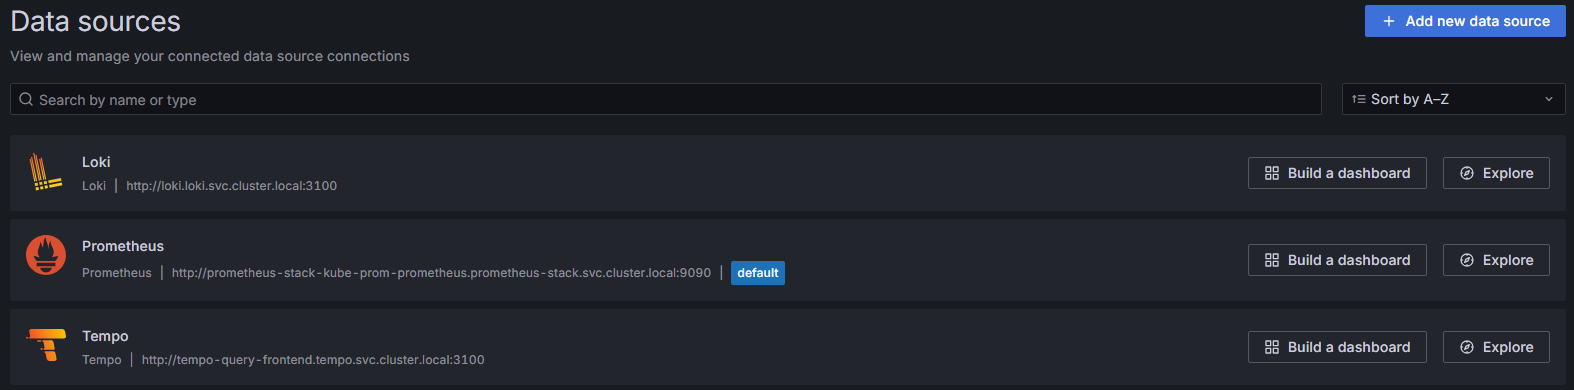
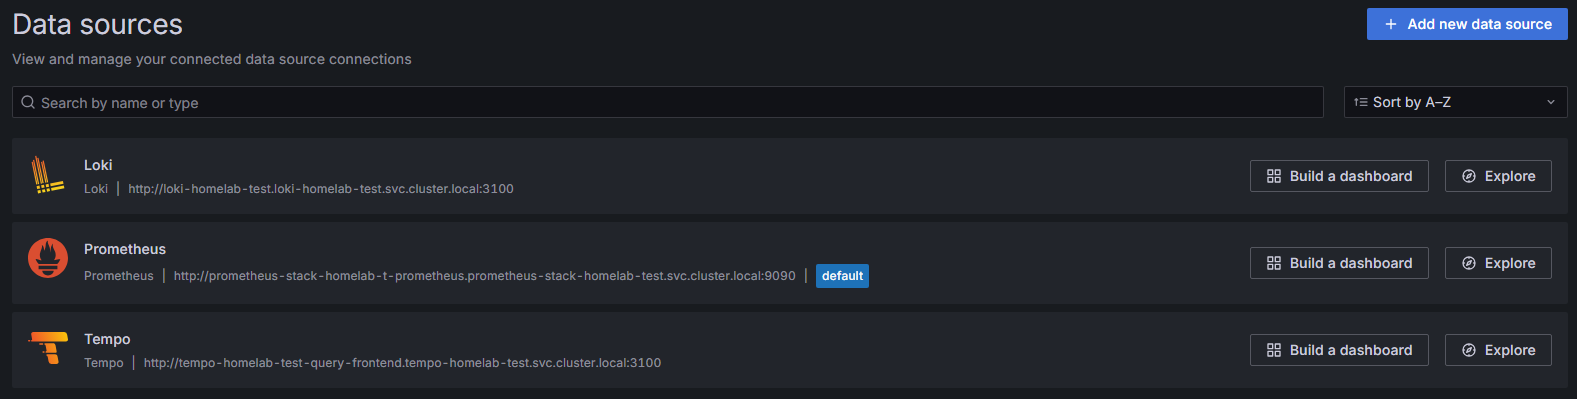
update somethings

diff --git a/docs/Logging.md b/docs/Logging.md
@@ -27,31 +27,57 @@ Node3
 ![PNG](../assets/logging_00.png)
 
 ```
-$ kubectl get pods -n promtail -o wide
-NAME             READY   STATUS    RESTARTS   AGE    IP           NODE         NOMINATED NODE   READINESS GATES
-promtail-4nkxv   1/1     Running   0          104m   10.42.0.29   k3s-node-0   <none>           <none>
-promtail-b89dw   1/1     Running   0          104m   10.42.1.66   k3s-node-2   <none>           <none>
-promtail-sj8w7   1/1     Running   0          104m   10.42.3.75   k3s-node-1   <none>           <none>
+$ kubectl get pods -n promtail-homelab-test -o wide
+NAME                          READY   STATUS    RESTARTS   AGE   IP           NODE           NOMINATED NODE   READINESS GATES
+promtail-homelab-test-5grsh   1/1     Running   0          63m   10.42.1.4    k3s-master-1   <none>           <none>
+promtail-homelab-test-bqt59   1/1     Running   0          63m   10.42.0.5    k3s-master-0   <none>           <none>
+promtail-homelab-test-cfr8l   1/1     Running   0          63m   10.42.5.11   k3s-agent-2    <none>           <none>
+promtail-homelab-test-ldh6c   1/1     Running   0          63m   10.42.4.9    k3s-agent-1    <none>           <none>
+promtail-homelab-test-rplhr   1/1     Running   0          63m   10.42.6.9    k3s-agent-0    <none>           <none>
+promtail-homelab-test-wqt5l   1/1     Running   0          63m   10.42.3.4    k3s-master-2   <none>           <none>
 
-$ kubectl get pods -n loki -o wide
-NAME                                           READY   STATUS    RESTARTS   AGE     IP           NODE         NOMINATED NODE   READINESS GATES
-loki-backend-0                                 2/2     Running   0          4m42s   10.42.3.82   k3s-node-1   <none>           <none>
-loki-backend-1                                 2/2     Running   0          4m41s   10.42.1.76   k3s-node-2   <none>           <none>
-loki-backend-2                                 2/2     Running   0          4m41s   10.42.0.35   k3s-node-0   <none>           <none>
-loki-canary-h57cr                              1/1     Running   0          4m42s   10.42.0.30   k3s-node-0   <none>           <none>
-loki-canary-qbsmg                              1/1     Running   0          4m42s   10.42.3.77   k3s-node-1   <none>           <none>
-loki-canary-xj8wh                              1/1     Running   0          4m42s   10.42.1.69   k3s-node-2   <none>           <none>
-loki-gateway-664dc8b498-56k7l                  1/1     Running   0          4m42s   10.42.1.71   k3s-node-2   <none>           <none>
-loki-grafana-agent-operator-555b65b9f6-l9vsq   1/1     Running   0          4m42s   10.42.1.70   k3s-node-2   <none>           <none>
-loki-logs-ldg8c                                2/2     Running   0          4m19s   10.42.1.77   k3s-node-2   <none>           <none>
-loki-logs-rmk5j                                2/2     Running   0          4m19s   10.42.0.36   k3s-node-0   <none>           <none>
-loki-logs-v85hj                                2/2     Running   0          4m19s   10.42.3.83   k3s-node-1   <none>           <none>
-loki-read-84f7654c5f-f86qm                     1/1     Running   0          4m42s   10.42.3.78   k3s-node-1   <none>           <none>
-loki-read-84f7654c5f-gppfj                     1/1     Running   0          4m42s   10.42.0.31   k3s-node-0   <none>           <none>
-loki-read-84f7654c5f-t8ndt                     1/1     Running   0          4m42s   10.42.1.72   k3s-node-2   <none>           <none>
-loki-write-0                                   1/1     Running   0          4m42s   10.42.1.75   k3s-node-2   <none>           <none>
-loki-write-1                                   1/1     Running   0          4m41s   10.42.0.34   k3s-node-0   <none>           <none>
-loki-write-2                                   1/1     Running   0          4m41s   10.42.3.81   k3s-node-1   <none>           <none>         <none>
+
+$ kubectl get pods -n loki-homelab-test -o wide
+NAME                                                        READY   STATUS    RESTARTS   AGE   IP           NODE           NOMINATED NODE   READINESS GATES
+loki-canary-8676d                                           1/1     Running   0          55m   10.42.1.5    k3s-master-1   <none>           <none>
+loki-canary-9vjp9                                           1/1     Running   0          55m   10.42.6.12   k3s-agent-0    <none>           <none>
+loki-canary-fbdkh                                           1/1     Running   0          55m   10.42.4.11   k3s-agent-1    <none>           <none>
+loki-canary-rt5t9                                           1/1     Running   0          55m   10.42.0.6    k3s-master-0   <none>           <none>
+loki-canary-xnc5s                                           1/1     Running   0          55m   10.42.5.12   k3s-agent-2    <none>           <none>
+loki-canary-zn2rz                                           1/1     Running   0          54m   10.42.3.5    k3s-master-2   <none>           <none>
+loki-gateway-6d5fc56d7-bxvq5                                1/1     Running   0          54m   10.42.3.6    k3s-master-2   <none>           <none>
+loki-homelab-test-0                                         1/1     Running   0          54m   10.42.5.14   k3s-agent-2    <none>           <none>
+loki-homelab-test-grafana-agent-operator-599f47b676-ccw9m   1/1     Running   0          55m   10.42.4.12   k3s-agent-1    <none>           <none>
+loki-homelab-test-logs-6qjxq                                2/2     Running   0          54m   10.42.1.6    k3s-master-1   <none>           <none>
+loki-homelab-test-logs-8l7vd                                2/2     Running   0          54m   10.42.5.15   k3s-agent-2    <none>           <none>
+loki-homelab-test-logs-h2wqt                                2/2     Running   0          54m   10.42.3.7    k3s-master-2   <none>           <none>
+loki-homelab-test-logs-k985l                                2/2     Running   0          54m   10.42.4.13   k3s-agent-1    <none>           <none>
+loki-homelab-test-logs-tnt29                                2/2     Running   0          54m   10.42.6.14   k3s-agent-0    <none>           <none>
+loki-homelab-test-logs-wmgc2                                2/2     Running   0          54m   10.42.0.7    k3s-master-0   <none>           <none>
+
+
+$ kubectl get pods -n tempo-homelab-test -o wide
+NAME                                                READY   STATUS    RESTARTS   AGE   IP           NODE           NOMINATED NODE   READINESS GATES
+tempo-homelab-test-compactor-5cc476bcb9-xxwkn       1/1     Running   0          66m   10.42.6.6    k3s-agent-0    <none>           <none>
+tempo-homelab-test-distributor-5f4998dcfc-hzsx9     1/1     Running   0          57m   10.42.6.10   k3s-agent-0    <none>           <none>
+tempo-homelab-test-ingester-0                       1/1     Running   0          66m   10.42.5.5    k3s-agent-2    <none>           <none>
+tempo-homelab-test-memcached-0                      1/1     Running   0          66m   10.42.6.7    k3s-agent-0    <none>           <none>
+tempo-homelab-test-querier-84bbb4689d-dmz2x         1/1     Running   0          66m   10.42.1.3    k3s-master-1   <none>           <none>
+tempo-homelab-test-query-frontend-88759c5fc-4pkrr   1/1     Running   0          66m   10.42.4.6    k3s-agent-1    <none>           <none>
+
+
+$ kubectl get pods -n prometheus-stack-homelab-test -o wide
+NAME                                                              READY   STATUS    RESTARTS      AGE   IP           NODE           NOMINATED NODE   READINESS GATES
+alertmanager-prometheus-stack-homelab-t-alertmanager-0            2/2     Running   0             65m   10.42.5.9    k3s-agent-2    <none>           <none>
+prometheus-prometheus-stack-homelab-t-prometheus-0                2/2     Running   0             65m   10.42.5.10   k3s-agent-2    <none>           <none>
+prometheus-stack-homelab-t-operator-6d64d57745-pqrz7              1/1     Running   0             65m   10.42.6.8    k3s-agent-0    <none>           <none>
+prometheus-stack-homelab-test-kube-state-metrics-6db996d4dz77dz   1/1     Running   0             65m   10.42.4.8    k3s-agent-1    <none>           <none>
+prometheus-stack-homelab-test-prometheus-node-exporter-5ntwn      1/1     Running   0             65m   10.88.0.20   k3s-agent-0    <none>           <none>
+prometheus-stack-homelab-test-prometheus-node-exporter-8hhmk      1/1     Running   0             65m   10.88.0.22   k3s-agent-2    <none>           <none>
+prometheus-stack-homelab-test-prometheus-node-exporter-8rlnm      1/1     Running   0             65m   10.88.0.10   k3s-master-0   <none>           <none>
+prometheus-stack-homelab-test-prometheus-node-exporter-bf5s7      1/1     Running   0             65m   10.88.0.11   k3s-master-1   <none>           <none>
+prometheus-stack-homelab-test-prometheus-node-exporter-q8x7z      1/1     Running   0             65m   10.88.0.21   k3s-agent-1    <none>           <none>
+prometheus-stack-homelab-test-prometheus-node-exporter-tlnwk      1/1     Running   1 (55m ago)   65m   10.88.0.12   k3s-master-2   <none>           <none>
 ```
 
 <br><br><br>

diff --git a/docs/CI-CD.md b/docs/CI-CD.md
@@ -9,6 +9,19 @@
 
 ### *B.　Tradition*
 ```
+Git Push
+  ↓
+GitLab CI
+  ↓
+Build Image
+  ↓
+Push Registry
+  ↓
+Update values.yaml
+  ↓
+K8s Apply
+  ↓
+Pod Service Running
 ```
 
 <br>
@@ -17,6 +30,23 @@
 ![PNG](../assets/argocd_00.png)
 ![PNG](../assets/argocd_01.png)
 ```
+Git Push
+  ↓
+GitLab CI
+  ↓
+Build Image
+  ↓
+Push Registry
+  ↓
+Update values.yaml
+  ↓
+ArgoCD Detect Drift
+  ↓
+Sync
+  ↓
+K8s Apply
+  ↓
+Pod Service Running
 ```
 
 <br>

diff --git a/README.md b/README.md
@@ -272,7 +272,7 @@
 | K8s | Experience : `k9s` | 2026-05-12 |
 | CI/CD | Experience : Git-Runner | 2026-05-19 |
 | CI/CD | Experience : ⚠️ Airflow 熱更新 | 2026-05-20 |
-| K8s | Experience : Terraform ( `Gateway` ) | 2026-05-24 |
+| K8s | Experience : Terraform `Gateway` | 2026-05-24 |
 | K8s | Experience :<br>Win => `Portproxy` => WSL2 | 2026-05-25 |
 | K8s | Experience : `ingress-nginx` | 2026-05-25 |
 | K8s | Experience : `OOM` Out of Memory | 2026-05-25 |
@@ -282,7 +282,7 @@
 | GitOps | Build : `Observability` `Prometheus` | 2026-05-30 |
 | GitOps | Build : `Observability` `Prometheus Stack` | 2026-05-30 |
 | GitOps | Build : `Observability` `Promtail` | 2026-05-31 |
-| GitOps | `Loki` values 渲染大坑 `nil pointer`<br>`evaluating interface {}.chunks` => 退至穩定版 | 2026-05-31 |
+| GitOps | `Helm Values 渲染大坑` => 退至穩定版 | 2026-05-31 |
 | GitOps | Build : `Observability` `Loki` | 2026-05-31 |
 | K8s | Experience : `Fluent Bit ( DaemonSet )` | 2026-05-31 |
 | GitOps | Build : `Observability` `Tempo` | 2026-06-01 |
@@ -290,9 +290,9 @@
 | GitOps | Build : `Databases` `Postgresql` | 2026-06-03 |
 | K8s | Experience : `ApplicationSet` | 2026-06-05 |
 | GitOps | update tree `Automated Multi-Tenant`<br>`Environment Provisioning` | 2026-06-05 |
-| GitOps | Ingress-Nginx `切換 Namespace 環境大坑` | 2026-06-06 |
-| K8s | 分類有無狀態服務 ( 親和反親合標籤設置 ) | 2026-06-06 |
-| K8s | Master 多節點設置 | 2026-06-06 |
+| GitOps | Ingress-Nginx `切換 Namespace 環境坑` | 2026-06-06 |
+| K8s | 分類有無狀態服務 ( 親和/反親合標籤設置 ) | 2026-06-06 |
+| K8s | `Master` 多節點設置 | 2026-06-06 |
 | GitOps | Build : `Observability` `Postgres Exporter` | 2026-06-07 |
 | GitOps | Build : `Platform` `Registry` | 2026-06-07 |
 | GitOps | Build : `PG-Apps` `cp` | - |